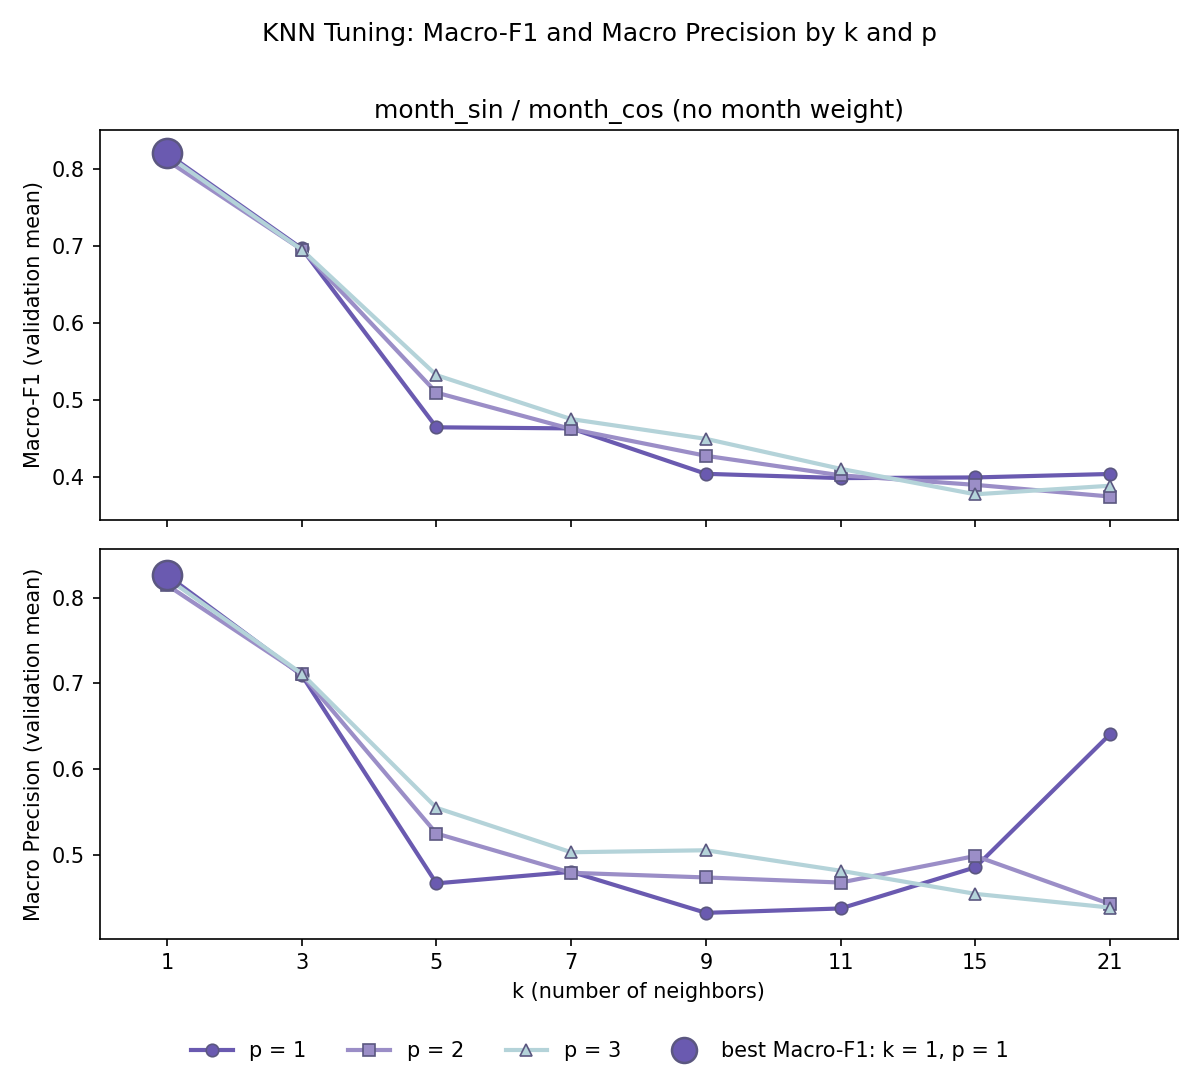
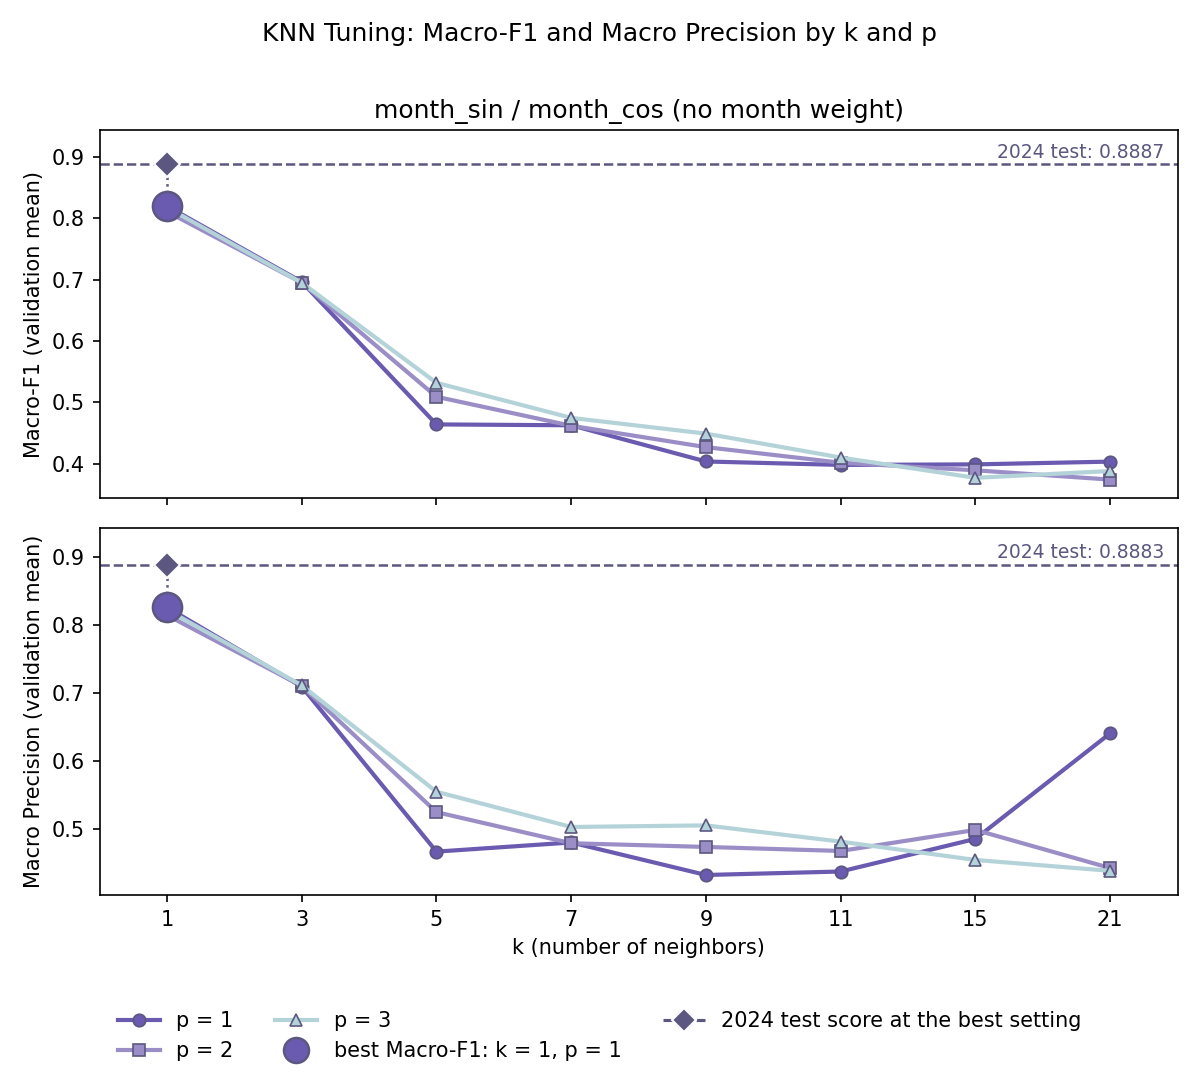
corrected knn graph

diff --git a/milestone03/evaluation.py b/milestone03/evaluation.py
@@ -337,7 +337,8 @@ EDGE_COLOR = "#5B5780"
 # line chart of the validation macro f1 (top row) and macro precision (bottom row)
 # x axis is k, one line for each p, one column for each month weight
 # details is the list that tune_knn fills when it gets details = []
-def plot_knn_tuning(details, folder, tag, feature_label):
+# test_results is the compute_metrics result of the chosen setting on the 2024 test data, it is drawn as a dashed line
+def plot_knn_tuning(details, folder, tag, feature_label, test_results = None):
     from matplotlib.lines import Line2D
 
     if not details:
@@ -375,8 +376,13 @@ def plot_knn_tuning(details, folder, tag, feature_label):
 
         # same y range for the whole row
         all_values = [row[metric] for row in details]
+        if test_results is not None:
+            all_values.append(test_results[metric])
         low = min(all_values) - 0.03
         high = max(all_values) + 0.03
+        # a little more room above the test line for its label
+        if test_results is not None:
+            high = max(all_values) + 0.055
 
         for column in range(len(weights)):
             weight = weights[column]
@@ -398,6 +404,15 @@ def plot_knn_tuning(details, folder, tag, feature_label):
                 best_y = lookup[(best["p"], best["k"], weight)][metric]
                 ax.plot([best_x], [best_y], color = LINE_COLORS[best_index % 3], marker = LINE_MARKERS[best_index % 3],
                         markersize = 14, markeredgecolor = EDGE_COLOR, markeredgewidth = 1.2, linestyle = "none", zorder = 5)
+
+                # the score of the same setting on the 2024 test data, trained on all the years before 2024
+                if test_results is not None:
+                    test_y = test_results[metric]
+                    ax.axhline(test_y, color = EDGE_COLOR, linestyle = "--", linewidth = 1.2, zorder = 1)
+                    ax.plot([best_x, best_x], [best_y, test_y], color = EDGE_COLOR, linestyle = ":", linewidth = 1.2, zorder = 2)
+                    ax.plot([best_x], [test_y], color = EDGE_COLOR, marker = "D", markersize = 9,
+                            markeredgecolor = "white", markeredgewidth = 1.0, linestyle = "none", zorder = 6)
+                    ax.text(len(k_values) - 0.6, test_y + 0.004, f"2024 test: {test_y:.4f}", ha = "right", va = "bottom", fontsize = 9, color = EDGE_COLOR)
 
             ax.set_ylim(low, high)
             ax.set_xlim(-0.5, len(k_values) - 0.5)
@@ -422,13 +437,22 @@ def plot_knn_tuning(details, folder, tag, feature_label):
     handles.append(Line2D([0], [0], color = LINE_COLORS[best_index % 3], marker = LINE_MARKERS[best_index % 3], markersize = 12,
                           markeredgecolor = EDGE_COLOR, markeredgewidth = 1.2, linestyle = "none"))
     labels.append(best_label)
-    fig.legend(handles, labels, loc = "lower center", ncol = len(handles), frameon = False)
+    if test_results is not None:
+        handles.append(Line2D([0], [0], color = EDGE_COLOR, linestyle = "--", marker = "D", markersize = 8,
+                              markeredgecolor = "white", markeredgewidth = 1.0))
+        labels.append("2024 test score at the best setting")
+    legend_columns = len(handles)
+    legend_space = 0.05
+    if len(weights) == 1:
+        legend_columns = 3
+        legend_space = 0.09
+    fig.legend(handles, labels, loc = "lower center", ncol = legend_columns, frameon = False)
 
     if feature_label == "base":
         fig.suptitle("KNN Tuning: Macro-F1 and Macro Precision by k and p")
     else:
         fig.suptitle("KNN Tuning: Macro-F1 and Macro Precision by k, p and month weight")
-    fig.tight_layout(rect = (0, 0.05, 1, 0.97))
+    fig.tight_layout(rect = (0, legend_space, 1, 0.97))
 
     os.makedirs(folder, exist_ok = True)
     save_figure(fig, f"{folder}/knn_tuning_{tag}.png")
@@ -523,7 +547,6 @@ def main():
             print("\nTuning KNN on the validation folds...")
             knn_k, knn_p, knn_weight, tuning_results, validate_years = tune_knn(x_train_used, y_train, years_train, month_cols = month_cols, details = knn_details)
             show_tuning(tuning_results, validate_years, knn_k, knn_p, knn_weight, f"knn_tuning_{tag}.csv")
-            plot_knn_tuning(knn_details, "results/graphs", tag, feature_set)
             knn_note = " (chosen by validation)"
 
         x_train_knn = x_train_scaled
@@ -535,6 +558,9 @@ def main():
             knn_setting += f"; month weight={knn_weight}"
         print("\nRunning KNN...")
         predictions["KNN"] = knn_predict(x_train_knn, y_train, x_test_knn, knn_k, knn_p)
+        # the tuning chart also shows the 2024 test score of the chosen setting
+        if TUNE_KNN:
+            plot_knn_tuning(knn_details, "results/graphs", tag, feature_set, compute_metrics(y_test, predictions["KNN"]))
         settings["KNN"] = knn_setting + knn_note
  
         print("Running Naive Bayes...")
